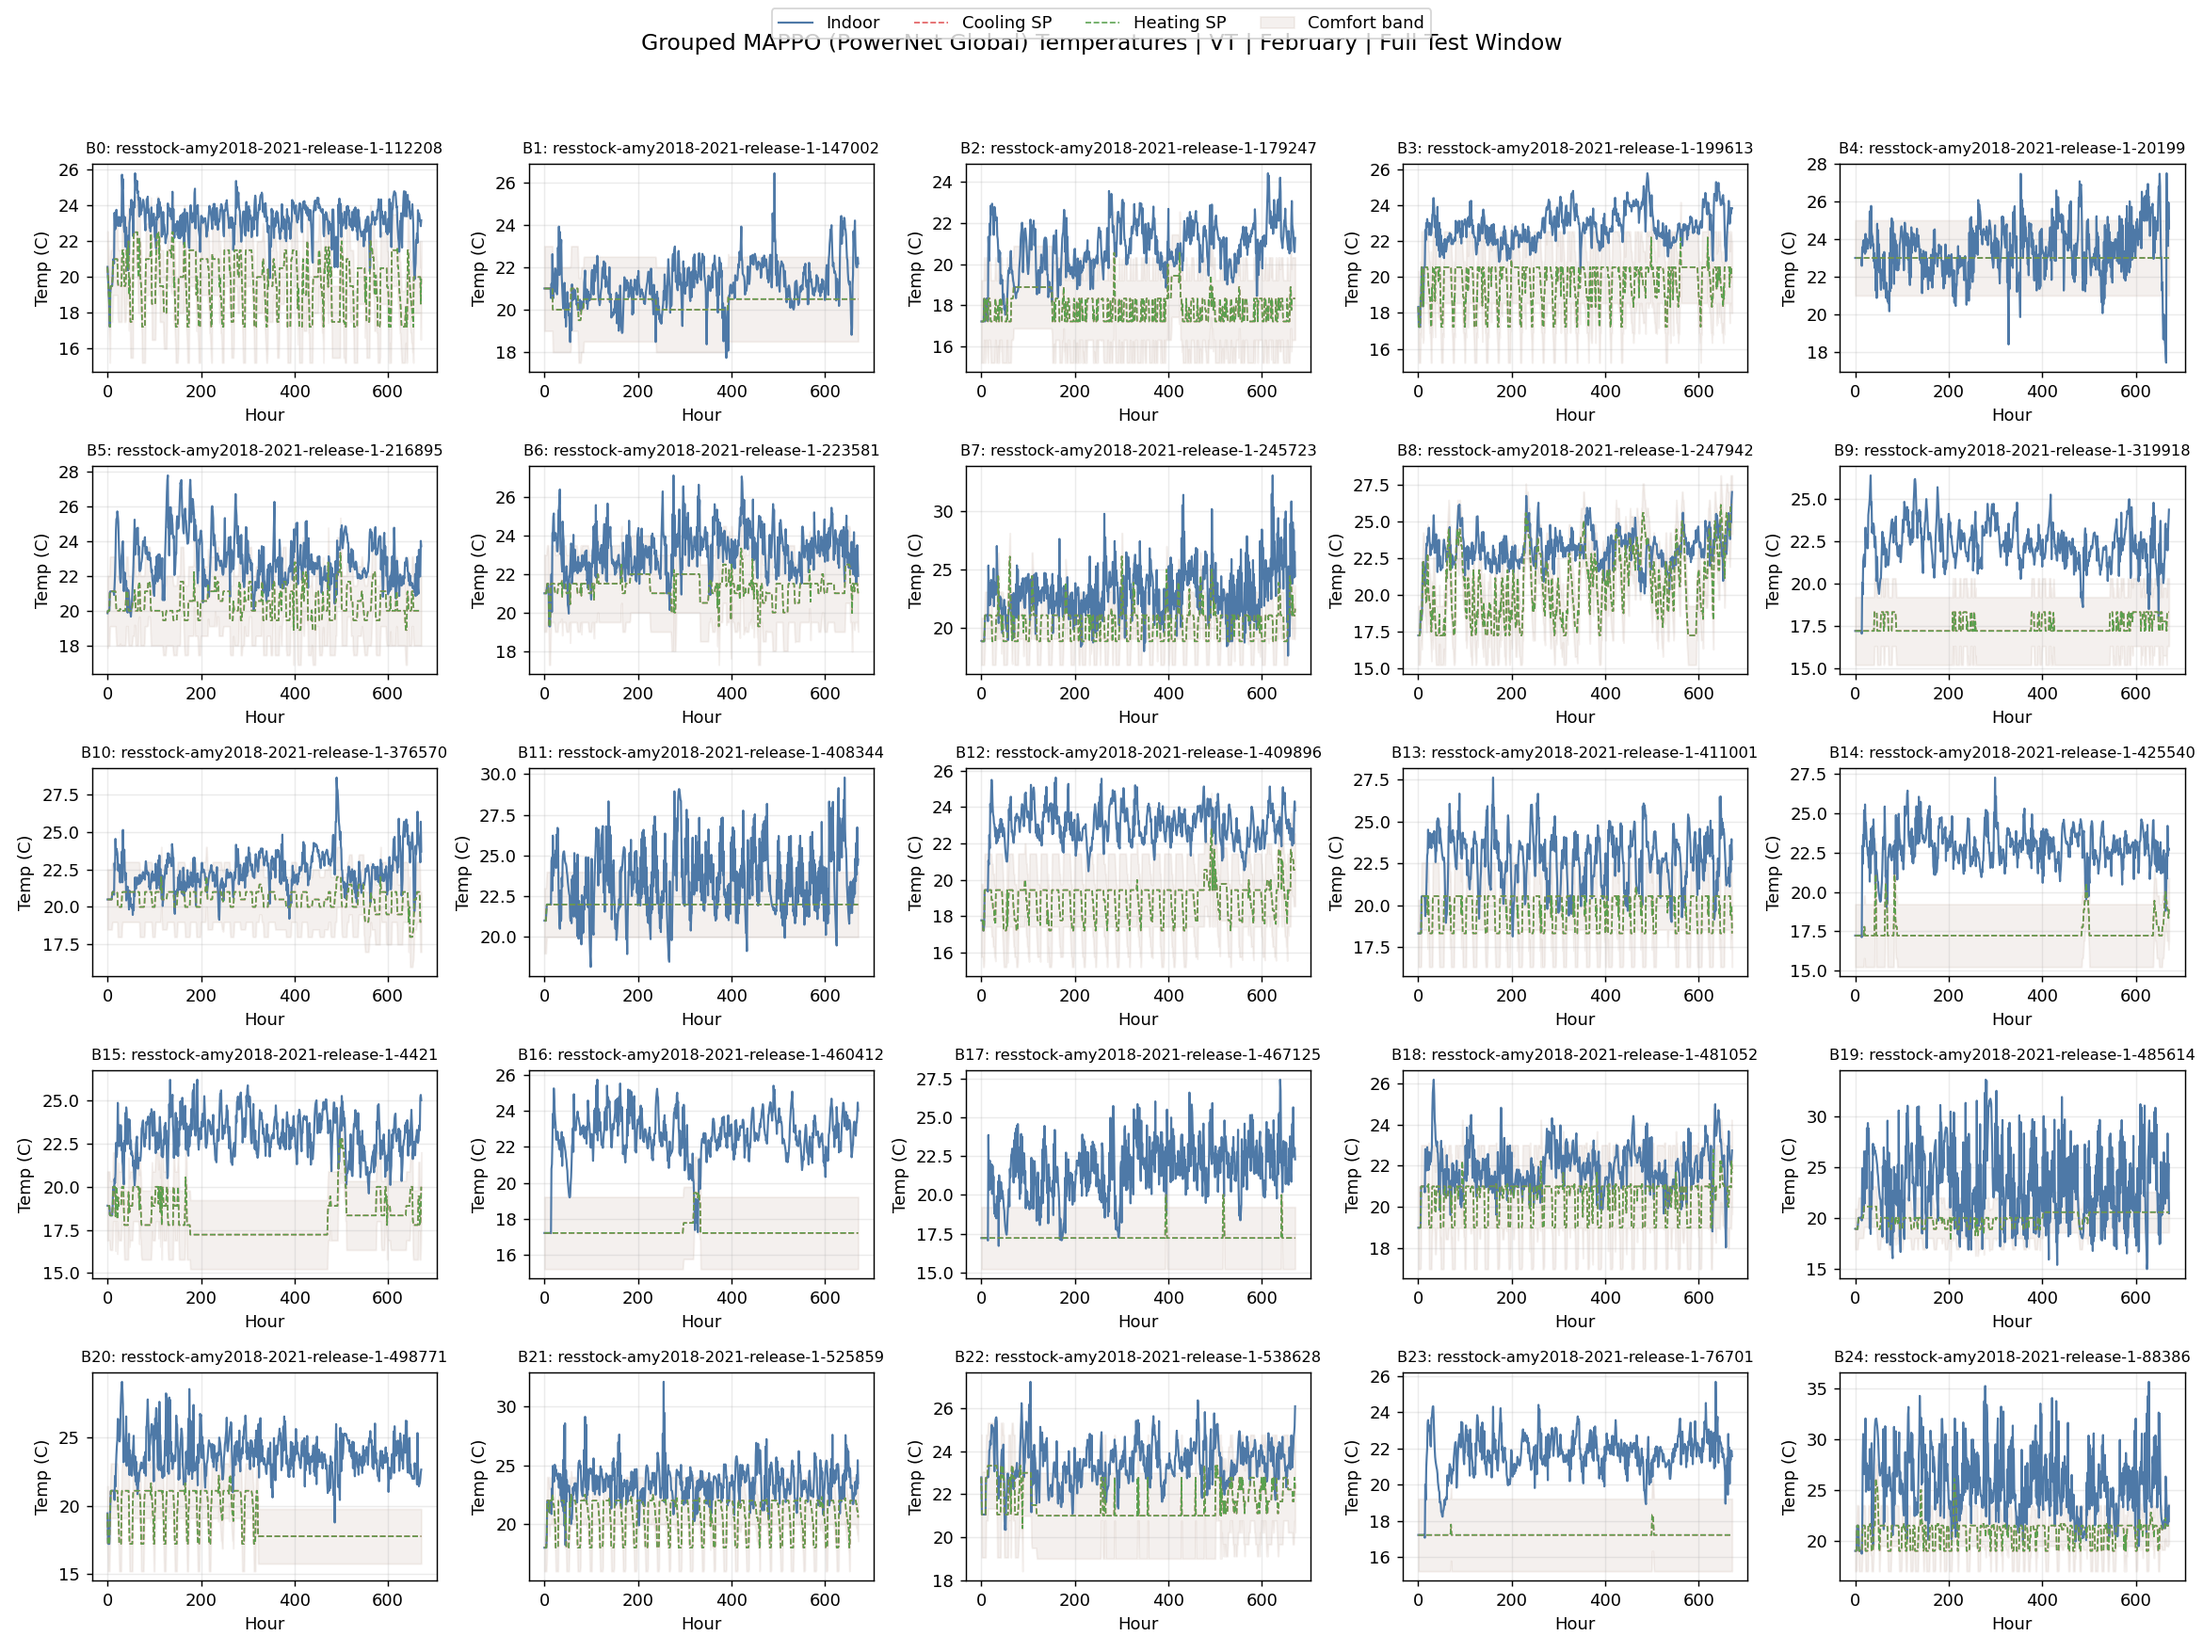
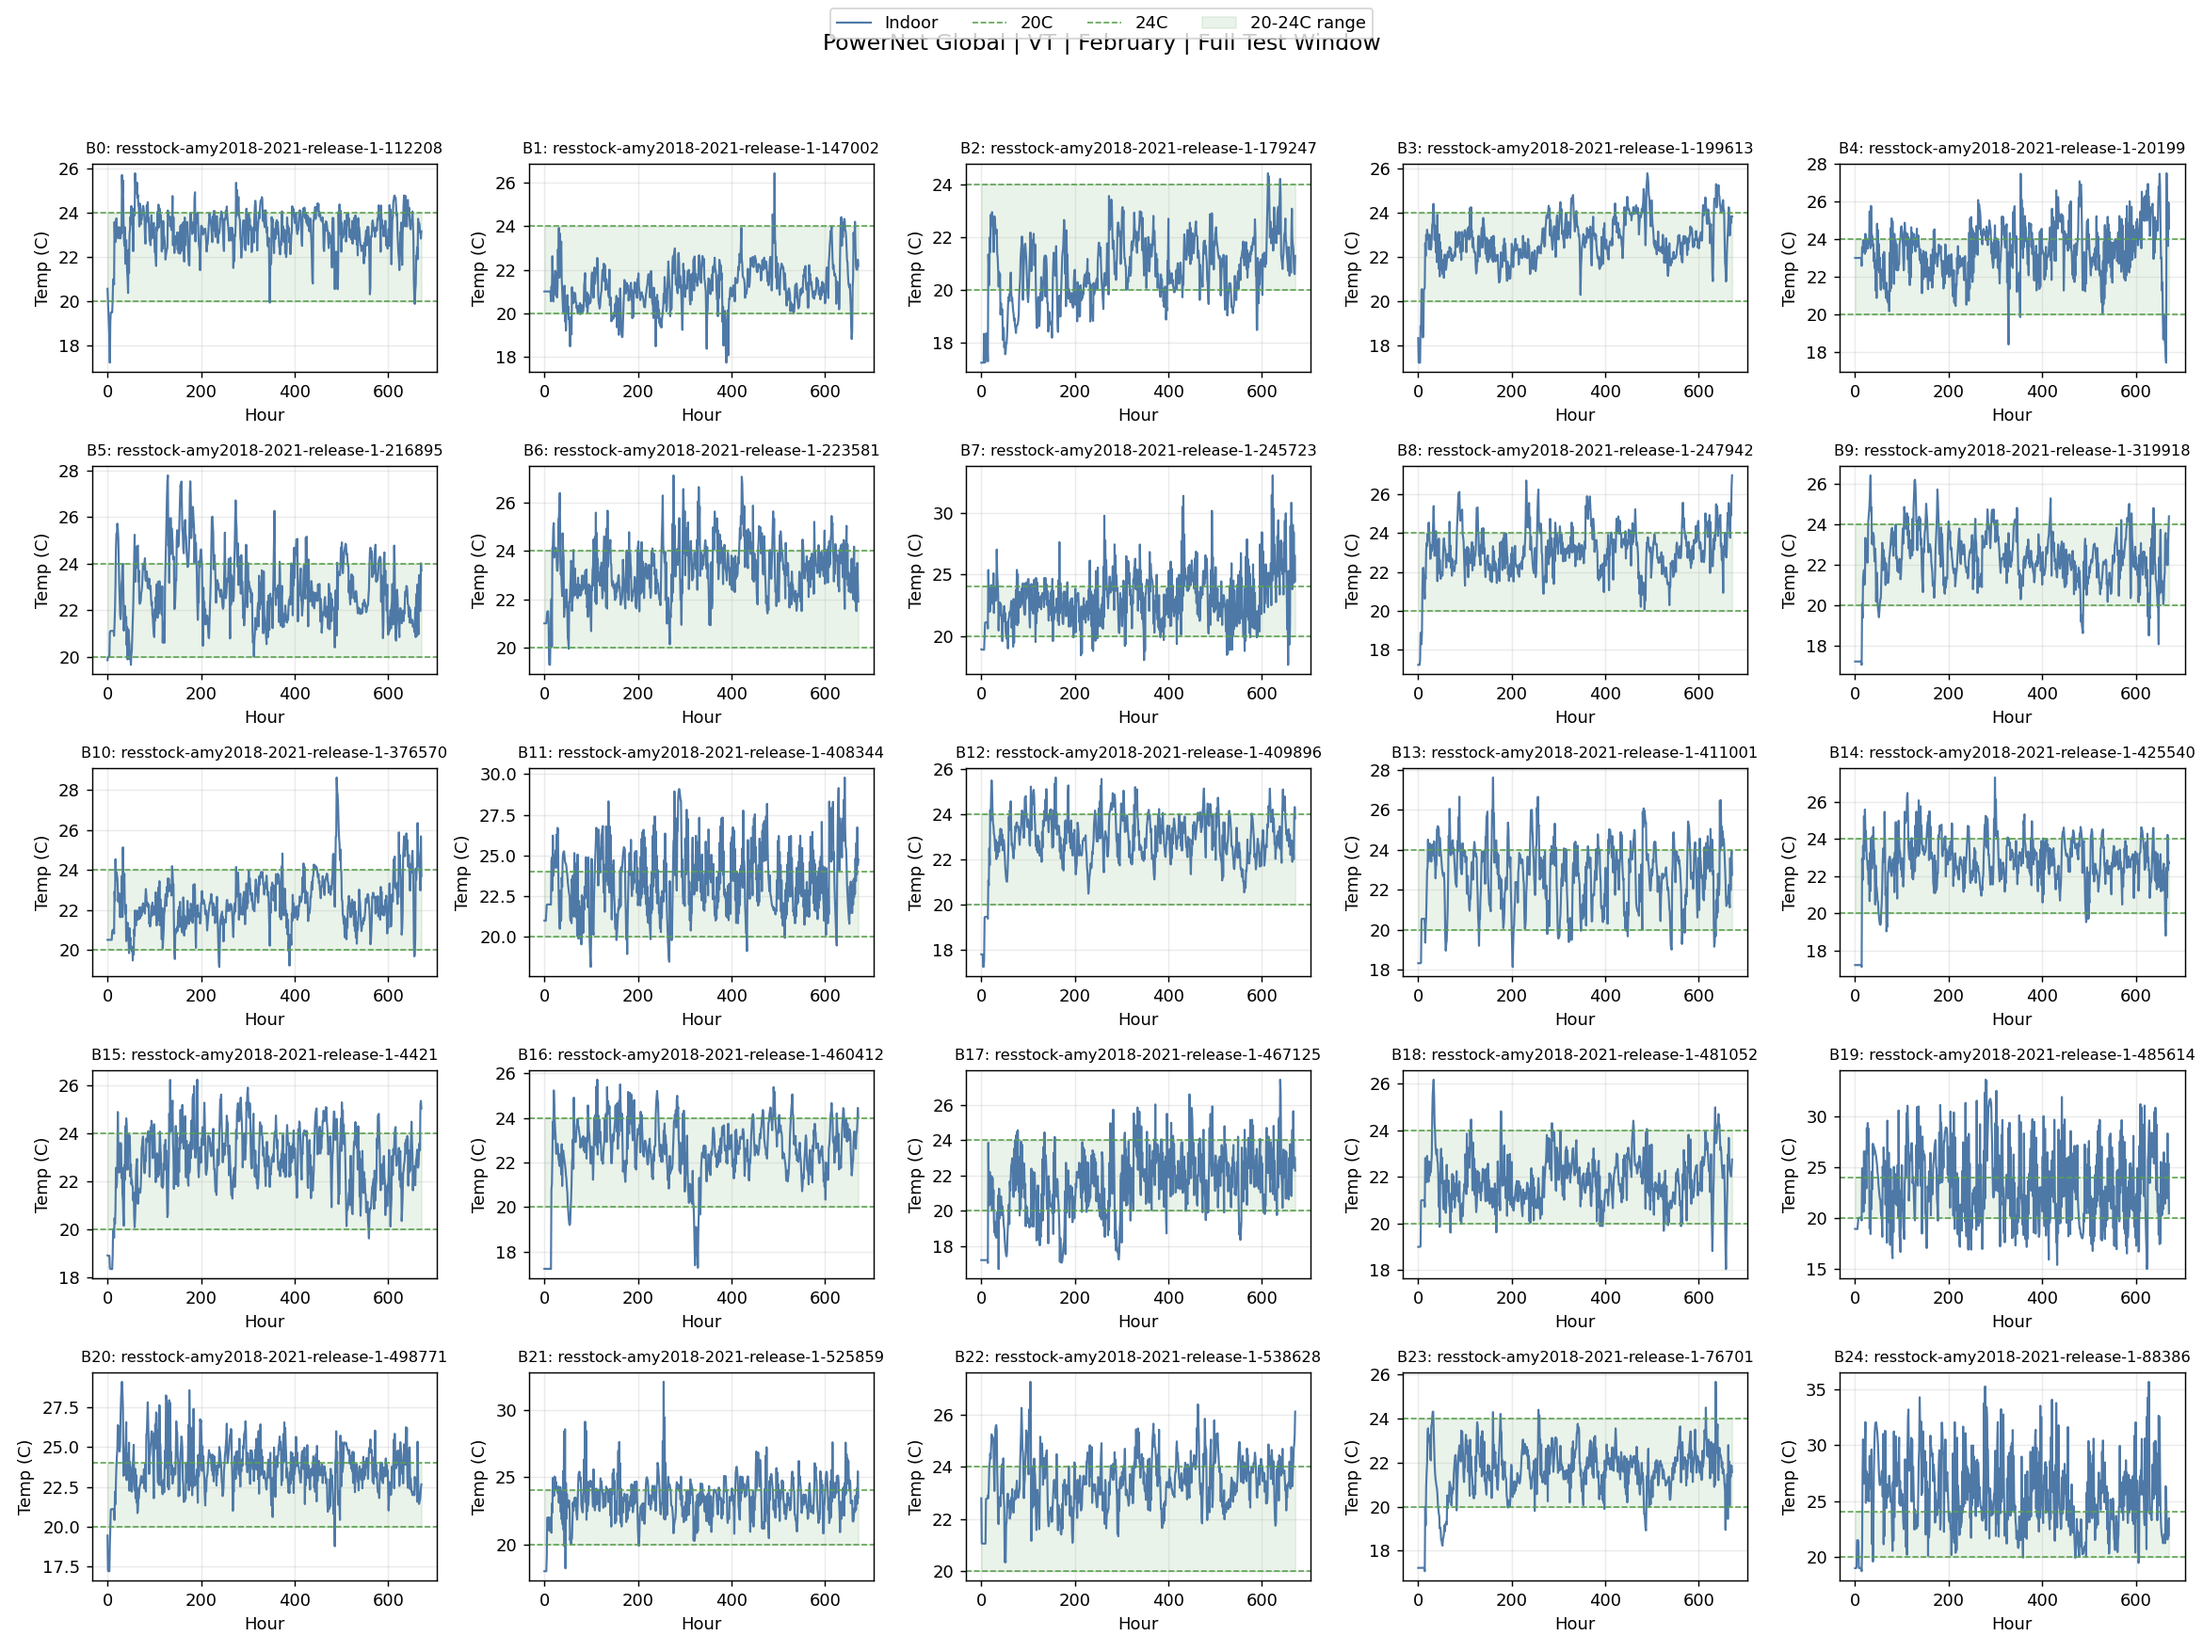
update fig

diff --git a/annex96_reporting.py b/annex96_reporting.py
@@ -267,18 +267,11 @@ def export_building_temperature_artifacts(
             building_name = str(building_frame["building_name"].iloc[0])
             hours = building_frame["hour"].to_numpy(dtype=float)
             indoor = building_frame["indoor_temperature"].to_numpy(dtype=float)
-            cooling_sp = building_frame["cooling_set_point"].to_numpy(dtype=float)
-            heating_sp = building_frame["heating_set_point"].to_numpy(dtype=float)
-            lower = building_frame["comfort_lower_bound"].to_numpy(dtype=float)
-            upper = building_frame["comfort_upper_bound"].to_numpy(dtype=float)
 
             ax.plot(hours, indoor, color="#4e79a7", linewidth=1.2, label="Indoor")
-            if np.isfinite(cooling_sp).any():
-                ax.plot(hours, cooling_sp, color="#e15759", linewidth=0.9, linestyle="--", label="Cooling SP")
-            if np.isfinite(heating_sp).any():
-                ax.plot(hours, heating_sp, color="#59a14f", linewidth=0.9, linestyle="--", label="Heating SP")
-            if np.isfinite(lower).any() and np.isfinite(upper).any():
-                ax.fill_between(hours, lower, upper, color="#9c755f", alpha=0.10, label="Comfort band")
+            ax.axhline(20.0, color="#59a14f", linewidth=0.9, linestyle="--", label="20C")
+            ax.axhline(24.0, color="#59a14f", linewidth=0.9, linestyle="--", label="24C")
+            ax.fill_between(hours, 20.0, 24.0, color="#59a14f", alpha=0.12, label="20-24C range")
 
             if legend_handles is None:
                 legend_handles, legend_labels = ax.get_legend_handles_labels()

diff --git a/report/evaluation.tex b/report/evaluation.tex
@@ -258,7 +258,7 @@ the average.
 \end{figure}
 
 Figures~\ref{fig:best-temp-week1} and~\ref{fig:best-temp-full} show that comfort is still the hardest part of the task.
-Several homes stay near the comfort band for most of the month, but some homes
+Several homes stay near the comfort band (20C-24C) for most of the month, but some homes
 spend long periods above the upper bound. This is exactly why the best overall
 controller is not the best comfort controller. In the exported comfort table,
 the worst individual buildings still exceed 400 hours, while the easiest
